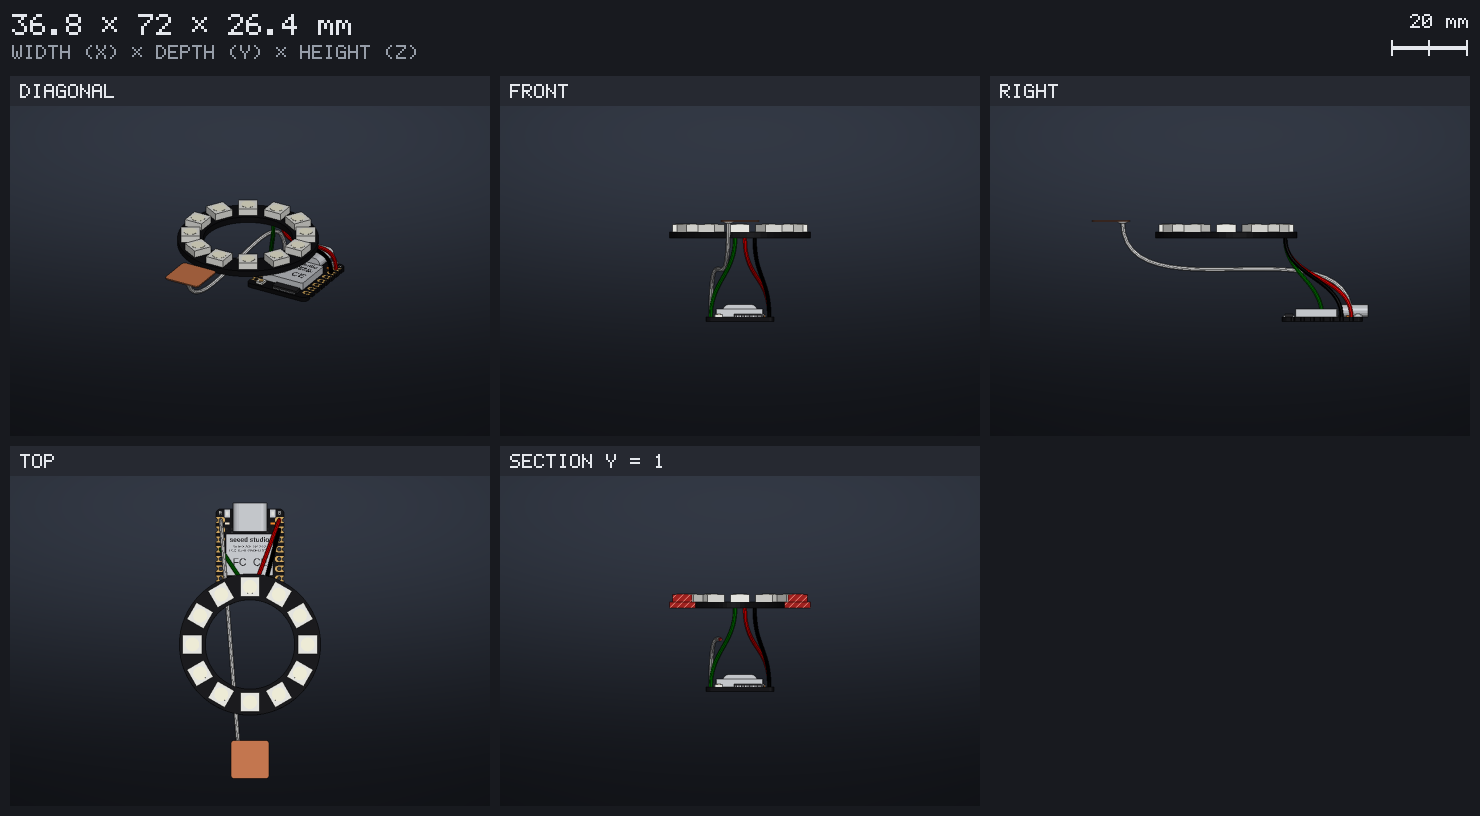
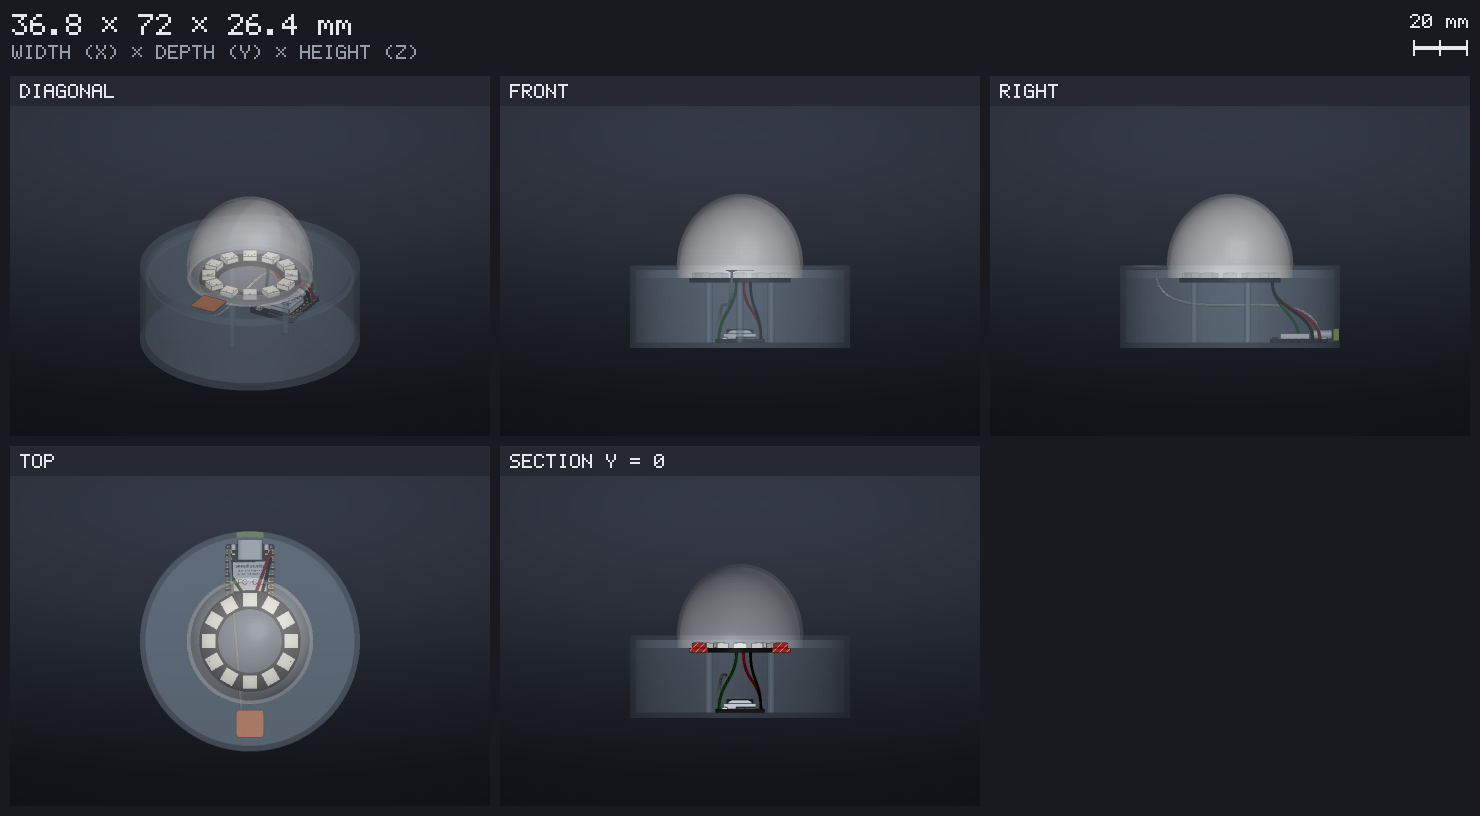
feat(mcp): draw a circuit's enclosure see-through in circuit_image

diff --git a/crates/app/src/mcp/circuit.rs b/crates/app/src/mcp/circuit.rs
@@ -76,14 +76,16 @@ pub fn tools() -> Vec<Value> {
             "name": "circuit_image",
             "title": "Picture of a circuit",
             "description": "A PNG picture of a circuit: its parts where it places them and its wires as tubes in their \
-                            colors, from a view as `image` takes, or its sheet of views (`view` = `sheet`, with \
-                            `section`). `net` (a pin, as `xiao.GND`) highlights the wires of its net and greys the others.",
+                            colors, inside its enclosure drawn see-through (unless `enclosure` is false), from a view as \
+                            `image` takes, or its sheet of views (`view` = `sheet`, with `section` to cut the \
+                            enclosure open). `net` (a pin, as `xiao.GND`) highlights the wires of its net and greys the others.",
             "inputSchema": schema_of(super::merge(circuit(), json!({
                 "view": { "type": "string", "enum": super::sheet_views(), "default": "diagonal", "description": "Where the camera looks from, or `sheet`." },
                 "section": { "type": "boolean", "default": false, "description": "With `view` = `sheet`: add a view cut through the middle." },
                 "width": { "type": "integer", "minimum": 1, "maximum": super::MAX_IMAGE_SIZE, "default": IMAGE_SIZE.0, "description": "In pixels." },
                 "height": { "type": "integer", "minimum": 1, "maximum": super::MAX_IMAGE_SIZE, "default": IMAGE_SIZE.1, "description": "In pixels." },
                 "net": { "type": "string", "description": "A pin, as `part.pin`, whose net to highlight." },
+                "enclosure": { "type": "boolean", "default": true, "description": "Draw the circuit's enclosure, see-through." },
             })), &[]),
         }),
         json!({
@@ -436,6 +438,9 @@ fn objects(rows: &[Vec<String>]) -> Vec<Value> {
         .collect()
 }
 
+/// How much of the enclosure shows, as the app draws it by default.
+const ENCLOSURE_ALPHA: f32 = 0.28;
+
 fn circuit_image(args: &Value) -> Result<Vec<Value>, String> {
     let (circuit, src, path) = load(args)?;
     let highlight = match args.get("net").and_then(Value::as_str) {
@@ -461,8 +466,19 @@ fn circuit_image(args: &Value) -> Result<Vec<Value>, String> {
             rendered.solid.push_triangle(std::array::from_fn(|k| tube.positions[corners[k] as usize]), [color; 3]);
         }
     }
+    // The enclosure, see-through around the parts.
+    let mut shown = false;
+    if args.get("enclosure").map_or(Ok(true), |v| v.as_bool().ok_or("`enclosure` is true or false"))? {
+        if let Some(mut enclosure) = crate::circuit::enclosure(&circuit)? {
+            for color in &mut enclosure.solid.colors {
+                color[3] = ENCLOSURE_ALPHA;
+            }
+            rendered.backgrounds.append(enclosure.solid);
+            shown = true;
+        }
+    }
     let png = picture(&rendered, args)?.ok_or("the circuit is empty: nothing to draw")?;
-    let mut report = json!({ "parts": circuit.parts.len(), "wires": circuit.wires.len() });
+    let mut report = json!({ "parts": circuit.parts.len(), "wires": circuit.wires.len(), "enclosure": shown });
     if let Some(net) = &highlight {
         report["net"] = json!(net.iter().map(|&end| circuit.end_name(end)).collect::<Vec<_>>());
     }

diff --git a/crates/app/src/circuit.rs b/crates/app/src/circuit.rs
@@ -177,7 +177,13 @@ const IDENTITY: c2f_geom::Placement =
 /// enclosure if it names one; the error when the enclosure does not load.
 fn solids(circuit: &Circuit, assembly: &Assembly) -> Result<(Vec<Model>, Option<Model>), String> {
     let models = assembly.nodes.iter().map(|node| c2f_geom::render(std::slice::from_ref(node)).model).collect();
-    let Some(enclosure) = &circuit.enclosure else { return Ok((models, None)) };
+    Ok((models, enclosure(circuit)?.map(|rendered| rendered.model)))
+}
+
+/// The circuit's enclosure rendered, if it names one; the error when it
+/// does not load.
+pub fn enclosure(circuit: &Circuit) -> Result<Option<c2f_geom::Rendered>, String> {
+    let Some(enclosure) = &circuit.enclosure else { return Ok(None) };
     let library_paths = c2f_eval::default_library_paths();
     let program = c2f_eval::read_source(enclosure)
         .ok()
@@ -187,7 +193,7 @@ fn solids(circuit: &Circuit, assembly: &Assembly) -> Result<(Vec<Model>, Option<
     // `%` copies of the parts, there to be seen through, are not the
     // enclosure: building them would only cost time.
     let nodes: Vec<_> = output.nodes.into_iter().filter(|node| !node.background).collect();
-    Ok((models, Some(c2f_geom::render_in(&nodes, enclosure.parent().unwrap_or(Path::new(""))).model)))
+    Ok(Some(c2f_geom::render_in(&nodes, enclosure.parent().unwrap_or(Path::new("")))))
 }
 
 /// Where the parts run into each other or into the enclosure, and where

diff --git a/crates/app/tests/mcp.rs b/crates/app/tests/mcp.rs
@@ -739,3 +739,18 @@ fn fit_reports_each_part_as_the_command_line_does() {
     let (is_error, _) = server.report("fit", json!({ "path": dir.join("winder.c2fc"), "clearance": -1 }));
     assert!(is_error);
 }
+
+#[test]
+fn circuit_image_draws_the_enclosure_see_through() {
+    let path = std::path::Path::new(env!("CARGO_MANIFEST_DIR")).join("../../examples/nightlight/nightlight.c2fc");
+    let mut server = Server::start();
+    let (is_error, content) = server.call("circuit_image", json!({ "path": path, "view": "sheet", "section": true }));
+    assert!(!is_error && content[0]["type"] == "image", "{content:?}");
+    let report: Value = serde_json::from_str(content[1]["text"].as_str().unwrap()).unwrap();
+    assert_eq!(report["enclosure"], true, "{report}");
+    let (_, content) = server.call("circuit_image", json!({ "path": path, "enclosure": false }));
+    let report: Value = serde_json::from_str(content[1]["text"].as_str().unwrap()).unwrap();
+    assert_eq!(report["enclosure"], false, "{report}");
+    let (is_error, _) = server.call("circuit_image", json!({ "path": path, "enclosure": "yes" }));
+    assert!(is_error);
+}

diff --git a/README.md b/README.md
@@ -197,7 +197,7 @@ resolving from `working_dir`, then the library folders) or a file as
 | `library_parts` | The parts in the `electronics/` folders of the library paths: the name a circuit gives as `part`, the file, and the file's first comment line |
 | `part_pins` | A part's pins (name, label, type, voltage, reserved, position, direction), mount holes and ports, and its badly written annotations, from `code` or `path` (as is, from `working_dir`, or from the library) |
 | `check_circuit` | Whether the circuit is fit to solder (`ok`): its errors and warnings with their file, line and column, from reading it, evaluating its parts and checking its wiring |
-| `circuit_image` | A PNG picture of the circuit, its parts placed and its wires as tubes in their colors, from `view`, `width` by `height` pixels, or its sheet of views (`view` `sheet`); `net` (a pin, as `xiao.GND`) highlights the wires of its net and greys the others |
+| `circuit_image` | A PNG picture of the circuit, its parts placed and its wires as tubes in their colors, inside its enclosure drawn see-through (unless `enclosure` is false), from `view`, `width` by `height` pixels, or its sheet of views (`view` `sheet`, with `section` to cut it open); `net` (a pin, as `xiao.GND`) highlights the wires of its net and greys the others |
 | `circuit_wires` | The wiring list in the order to lay the wires: step, each pin and its label, color, label, length in millimeters |
 | `circuit_bom` | The bill of materials: each part file and set of params, its quantity and its instances |
 | `fit` | How each part fits in the enclosure: its least clearance, its gaps to the enclosure and the nearest part with where, the ports no cutout opens and the mount holes no standoff holds, and the wires that run into the enclosure; `clearance` sets the room wanted (0.5 mm) |

diff --git a/docs/electronics.md b/docs/electronics.md
@@ -799,7 +799,7 @@ with `claude mcp add code2form -- c2f mcp` (see the README's
 | `library_parts` | lists the library's electronics parts, by the name a circuit gives as `part`, with their description, specs and sources; `query` ranks them as the catalogue's search does |
 | `part_pins` | a part's pins, mount holes, ports and badly written annotations, from `code` or `path` |
 | `check_circuit` | the wiring checks, with `ok` false on an error |
-| `circuit_image` | a PNG of the circuit with its wires; `net` (as `xiao.GND`) highlights one net |
+| `circuit_image` | a PNG of the circuit with its wires, in its enclosure drawn see-through (`enclosure` false leaves it out), or its sheet of views (`view` `sheet`, `section` cuts it open); `net` (as `xiao.GND`) highlights one net |
 | `circuit_wires` | the wiring list |
 | `circuit_bom` | the bill of materials |
 | `fit` | how each part fits in the enclosure, as [`c2f circuit fit`](#does-it-fit) says it; `clearance` sets the room wanted |

diff --git a/docs/idea-to-build.md b/docs/idea-to-build.md
@@ -127,7 +127,10 @@ parts from `circuit_bom`:
 | Adafruit NeoPixel Ring 12 | 1 |
 | Copper plate, 10 mm square | 1 |
 
-![The parts and their wires, from every side](images/nightlight/5-wiring.png)
+`circuit_image` with `view = "sheet"` and `section = true` shows the
+build from every side inside its see-through enclosure, and cut open:
+
+![The build from every side, and cut open](images/nightlight/5-wiring.png)
 
 Then `export`, with `for_print = true`, wrote the three pieces laid out
 for the slicer as one 3MF. They come as one object, of three separate
